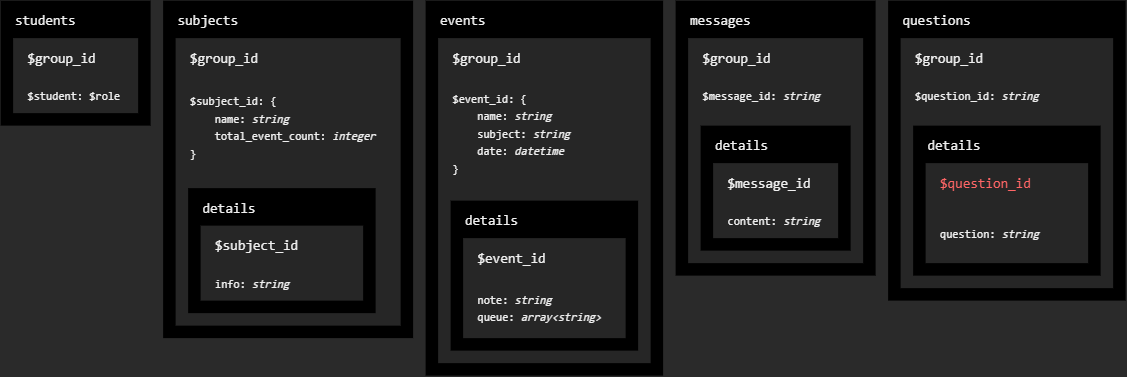
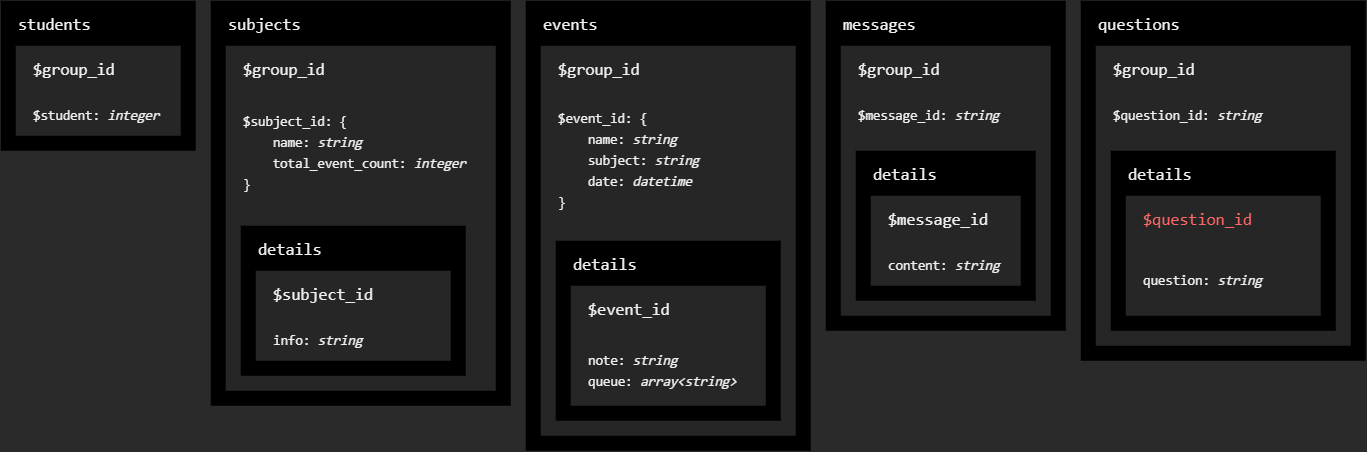
Add storage and role system, make a new-subject page sketch

Changed region(s): [[0.0311, 0.0, 0.9317, 1.0], [0.0, 0.0292, 0.0621, 0.0875], [0.0311, 0.1459, 0.0932, 0.1751]]

diff --git a/app/lib/widgets/sections/subjects.dart b/app/lib/widgets/sections/subjects.dart
@@ -1,0 +1,56 @@
+import 'package:flutter/material.dart';
+
+import 'section.dart';
+
+
+class SubjectsSection extends Section {
+	@override
+	final name = "subjects";
+	@override
+	final icon = Icons.school;
+	@override
+	final hasAddAction = true;
+
+	const SubjectsSection();
+
+	@override
+	Widget build(BuildContext context) {
+		return Center(child: Icon(icon));
+	}
+
+	@override
+	void addAction(BuildContext context) {
+		Navigator.of(context).push(MaterialPageRoute(
+			builder: (context) => NewSubjectPage()
+		));
+	}
+}
+
+
+class NewSubjectPage extends StatelessWidget {
+	final _nameField = TextEditingController();
+
+	NewSubjectPage();
+
+	@override
+	Widget build(BuildContext context) {
+		return GestureDetector(
+			onDoubleTap: () => _addSubject(context),
+			child: Scaffold(
+				body: Center(
+					child: TextField(  // todo: add auto-fill hints?
+						controller: _nameField,
+						decoration: const InputDecoration(hintText: "Name"),
+						showCursor: false,
+					)
+				)
+			)
+		);
+	}
+
+	void _addSubject(BuildContext context) {
+		if (_nameField.text.isEmpty) return;
+		Navigator.of(context).pop();
+		// todo: add the subject
+	}
+}

diff --git a/app/lib/widgets/home.dart b/app/lib/widgets/home.dart
@@ -1,5 +1,8 @@
 import 'package:flutter/material.dart';
 
+import 'package:podiynyk/storage/cloud.dart';
+import 'package:podiynyk/storage/entities.dart';
+
 import 'sections/agenda.dart';
 import 'sections/events.dart';
 import 'sections/group.dart';
@@ -11,6 +14,8 @@ import 'sections/settings.dart';
 
 
 class Home extends StatefulWidget {
+	const Home();
+
 	@override
 	State<Home> createState() => _HomeState();
 }
@@ -29,9 +34,9 @@ class _HomeState extends State<Home> {
 				))
 			),
 			body: _section,
-			floatingActionButton: _section.hasAddAction ? FloatingActionButton(
+			floatingActionButton: _section.hasAddAction && Cloud.role >= Role.trusted ? FloatingActionButton(
 				child: const Icon(Icons.add),
-				onPressed: _section.addAction
+				onPressed: () => _section.addAction(context)
 			) : null,
 			drawer: Drawer(
 				child: Column(

diff --git a/app/lib/main.dart b/app/lib/main.dart
@@ -1,6 +1,9 @@
 import 'package:flutter/material.dart';
+import 'package:firebase_core/firebase_core.dart' show Firebase;
 
-import 'home/home.dart';
+import 'widgets/home.dart';
+import 'widgets/loading.dart';
+import 'storage/cloud.dart';
 
 
 void main() {
@@ -13,7 +16,14 @@ class App extends StatelessWidget {
 	Widget build(BuildContext context) {
 		return MaterialApp(
 			title: 'Podiynyk',
-			home: Home()
+			home: FutureBuilder(
+				future: Firebase.initializeApp().then((_) => Cloud.roles()),
+				builder: (context, snapshot) {
+					if (snapshot.connectionState == ConnectionState.waiting) return const Loading();
+					// todo: think about handling the error
+					return const Home();
+				},
+			)
 		);
 	}
 }

diff --git a/app/lib/storage/cloud.dart b/app/lib/storage/cloud.dart
@@ -1,0 +1,26 @@
+import 'package:cloud_firestore/cloud_firestore.dart';
+
+import 'entities.dart';
+import 'local.dart';
+
+typedef Roles = Map<String, Role>;
+
+
+class Cloud {
+	static final _cloud = FirebaseFirestore.instance;
+
+	static late Role _role;
+	static Role get role => _role;
+
+	/// The [roles] of the group's students. Updates the user's [Role].
+	static Future<Roles> roles() async {
+		final rawRoles = await _cloud.collection('students').doc(Local.groupId).get();
+		final roles = {
+			for (final studentRole in rawRoles.data()!.entries)
+			studentRole.key: Role.values[studentRole.value as int]
+		};
+
+		_role = roles[Local.name]!;
+		return roles;
+	}
+}

diff --git a/app/lib/widgets/sections/agenda.dart b/app/lib/widgets/sections/agenda.dart
@@ -3,15 +3,15 @@ import 'package:flutter/material.dart';
 import 'section.dart';
 
 
-class MessagesSection extends Section {
+class AgendaSection extends Section {
 	@override
-	final String name = "messages";
+	final name = "agenda";
 	@override
-	final IconData icon = Icons.messenger;
+	final icon = Icons.remove_red_eye;
 	@override
-	final bool hasAddAction = true;
+	final hasAddAction = true;
 
-	const MessagesSection();
+	const AgendaSection();
 
 	@override
 	Widget build(BuildContext context) {

diff --git a/app/lib/widgets/sections/messages.dart b/app/lib/widgets/sections/messages.dart
@@ -3,15 +3,15 @@ import 'package:flutter/material.dart';
 import 'section.dart';
 
 
-class EventsSection extends Section {
+class MessagesSection extends Section {
 	@override
-	final String name = "events";
+	final name = "messages";
 	@override
-	final IconData icon = Icons.event_note;
+	final icon = Icons.messenger;
 	@override
-	final bool hasAddAction = true;
+	final hasAddAction = true;
 
-	const EventsSection();
+	const MessagesSection();
 
 	@override
 	Widget build(BuildContext context) {

diff --git a/app/lib/widgets/sections/group.dart b/app/lib/widgets/sections/group.dart
@@ -3,15 +3,15 @@ import 'package:flutter/material.dart';
 import 'section.dart';
 
 
-class AgendaSection extends Section {
+class GroupSection extends Section {
 	@override
-	final String name = "agenda";
+	final name = "group";
 	@override
-	final IconData icon = Icons.remove_red_eye;
+	final icon = Icons.people;
 	@override
-	final bool hasAddAction = true;
+	final hasAddAction = true;
 
-	const AgendaSection();
+	const GroupSection();
 
 	@override
 	Widget build(BuildContext context) {

diff --git a/app/lib/widgets/sections/events.dart b/app/lib/widgets/sections/events.dart
@@ -3,15 +3,15 @@ import 'package:flutter/material.dart';
 import 'section.dart';
 
 
-class GroupSection extends Section {
+class EventsSection extends Section {
 	@override
-	final String name = "group";
+	final name = "events";
 	@override
-	final IconData icon = Icons.people;
+	final icon = Icons.event_note;
 	@override
-	final bool hasAddAction = true;
+	final hasAddAction = true;
 
-	const GroupSection();
+	const EventsSection();
 
 	@override
 	Widget build(BuildContext context) {

diff --git a/app/lib/storage/entities.dart b/app/lib/storage/entities.dart
@@ -1,0 +1,15 @@
+/// The student's [Role] in a group.
+enum Role {
+	/// Views the group's content. Multiple students in a group have this role.
+	ordinary,
+	/// Manages the group's content. Multiple students in a group have this role.
+	trusted,
+	/// Manages the group's [trusted] students. A single student in a group has this role.
+	leader,
+}
+
+extension Comparing on Role {
+	bool operator >=(Role comparedTo) {
+		return index >= comparedTo.index;
+	}
+}

diff --git a/app/lib/widgets/sections/questions.dart b/app/lib/widgets/sections/questions.dart
@@ -5,11 +5,11 @@ import 'section.dart';
 
 class QuestionsSection extends Section {
 	@override
-	final String name = "questions";
+	final name = "questions";
 	@override
-	final IconData icon = Icons.question_answer;
+	final icon = Icons.question_answer;
 	@override
-	final bool hasAddAction = true;
+	final hasAddAction = true;
 
 	const QuestionsSection();
 

diff --git a/app/lib/widgets/sections/settings.dart b/app/lib/widgets/sections/settings.dart
@@ -5,11 +5,11 @@ import 'section.dart';
 
 class SettingsSection extends Section {
 	@override
-	final String name = "settings";
+	final name = "settings";
 	@override
-	final IconData icon = Icons.settings;
+	final icon = Icons.settings;
 	@override
-	final bool hasAddAction = false;
+	final hasAddAction = false;
 
 	const SettingsSection();
 

diff --git a/app/lib/storage/local.dart b/app/lib/storage/local.dart
@@ -1,0 +1,9 @@
+import 'package:hive_flutter/hive_flutter.dart';
+
+
+class Local {
+	// todo: change after identification is implemented
+	static String get groupId => 'test.group.id';
+	// todo: change after identification is implemented
+	static String get name => 'Test Name 0';
+}
